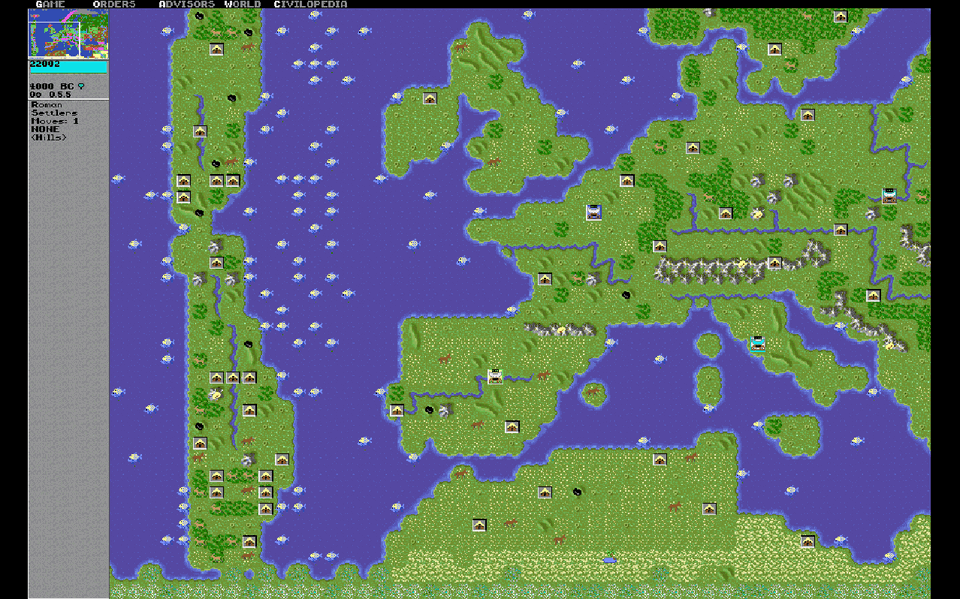
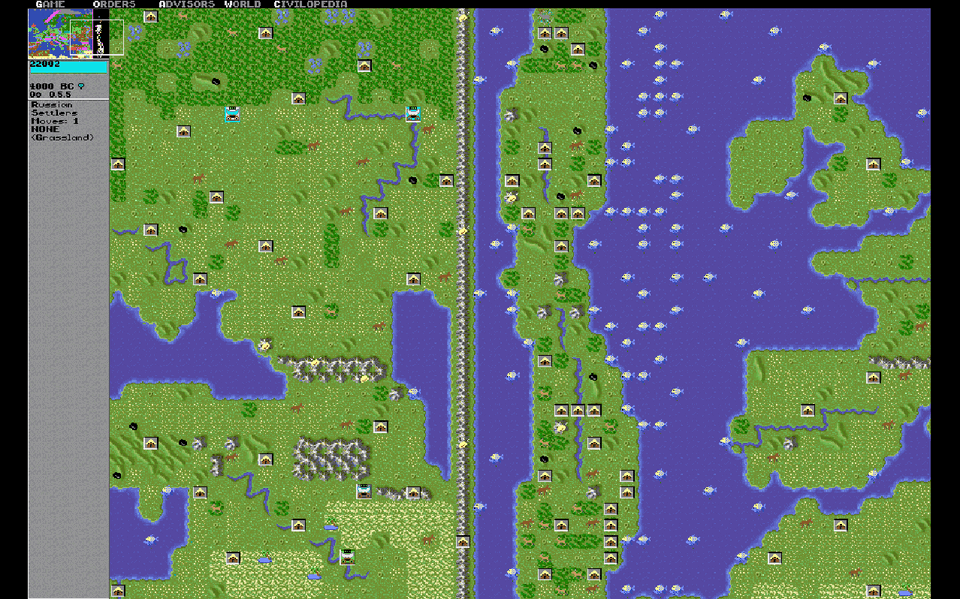
Europe: a range of mountains at the end of the world, Greenland, release 1.7.6
The east edge of Europe is now a single range of mountains from top to
bottom (it also closes the Caspian) instead of two columns of sea; Russia
gets its last column of land back. The west edge stays sea before the New
World, which grows by Greenland in the north and a wider body (about 230
tiles of land). No unit crosses the seam, as before.

Claude-Session: https://claude.ai/code/session_01Ldv5L1WGp1dhZttqXd13rA

diff --git a/tools/maps/terrain.py b/tools/maps/terrain.py
@@ -154,14 +154,18 @@ for name, line in rivers.items():
             if 0 <= x < W and 0 <= y < H and grid[y, x] != 'o':
                 grid[y, x] = 'r'
 
-# Dardanelles open. The map wraps: beyond the east edge lies the New World, so the last two columns
-# are sea (east of the Urals) and the Caspian keeps a shore of steppe and desert on its east.
+# Dardanelles open. The map does not wrap in the game: its east edge is a single range of mountains from top
+# to bottom (the end of the world, past the Urals), and its west edge a column of sea before the New World.
 grid[36, 54] = 'o'
 for y in range(H):
-    for x in (78, 79, 0, 1):
-        grid[y, x] = 'o'
-    if 26 <= y <= 41 and grid[y, 77] == 'o':
-        grid[y, 77] = 'd' if y > 33 else 'p'
+    grid[y, 79] = 'm'
+    grid[y, 0] = 'o'
+    grid[y, 1] = 'o'
+
+# Greenland, in the far north of the New World: tundra and ice.
+for y, x0, x1 in ((2, 4, 6), (3, 3, 7), (4, 3, 7), (5, 4, 6)):
+    for x in range(x0, x1 + 1):
+        grid[y, x] = 'a' if y == 2 or x in (x0, x1) else 't'
 
 # The New World: a narrow, rich land beyond the Atlantic, at the left edge. Two columns of ocean keep it
 # apart from the east edge (the map wraps), and about ten of Atlantic from Europe, so only ships that
@@ -169,10 +173,10 @@ for y in range(H):
 import math
 for y in range(12, 48):
     centre = 5.6 + 1.3 * math.sin(y / 5.0)
-    half = 2.2 + 0.7 * math.sin(y / 3.1 + 1.0)
+    half = 2.7 + 0.7 * math.sin(y / 3.1 + 1.0)
     if 25 <= y <= 27:
         half -= 1.2  # an isthmus
-    for x in range(3, 11):
+    for x in range(2, 12):
         if abs(x + 0.5 - centre) <= max(half, 0.6):
             r = ((x * 2654435761) ^ (y * 40503) ^ 0x9e3779b9) % 100
             if y < 16:
@@ -184,7 +188,7 @@ for y in range(12, 48):
             grid[y, x] = t
     if 18 <= y <= 40 and not 24 <= y <= 28:
         x = int(centre)
-        if 3 <= x < 11 and grid[y, x] != 'o':
+        if 2 <= x < 12 and grid[y, x] != 'o':
             grid[y, x] = 'r'  # the great river of the New World
 
 np.save(out + '/europe_grid.npy', grid)

diff --git a/Civ_1_5_Remastered.Tests/Core.Shared/EuropeMapTests.cs b/Civ_1_5_Remastered.Tests/Core.Shared/EuropeMapTests.cs
@@ -6,6 +6,7 @@ namespace Civ_1_5_Remastered.Tests.Core.Shared
 	public class EuropeMapTests
 	{
 		private const byte Ocean = 1;
+		private const byte Mountains = 13;
 
 		private static readonly int[] Leaders = [1, 2, 3, 4, 5, 6, 7, 9, 10, 11, 12, 13, 14, 15, 16, 17];
 
@@ -43,15 +44,15 @@ namespace Civ_1_5_Remastered.Tests.Core.Shared
 
 			for (int row = 0; row < 50; row++)
 			{
-				// The map wraps: the east edge and the first columns are sea, nobody walks from Russia to the New World.
-				Assert.Equal(Ocean, map.ObtainDot(78, row));
-				Assert.Equal(Ocean, map.ObtainDot(79, row));
+				// The east edge is a single range of mountains from top to bottom, the west edge sea before the New
+				// World; nobody steps across the seam between them.
+				Assert.Equal(Mountains, map.ObtainDot(79, row));
 				Assert.Equal(Ocean, map.ObtainDot(0, row));
 				Assert.Equal(Ocean, map.ObtainDot(1, row));
 			}
 
 			int newWorld = Enumerable.Range(0, 50).SelectMany(row => Enumerable.Range(2, 10).Select(column => map.ObtainDot(column, row))).Count(colour => colour != Ocean);
-			Assert.True(newWorld > 100, $"the New World has {newWorld} tiles of land");
+			Assert.True(newWorld > 180, $"the New World has {newWorld} tiles of land");
 		}
 
 		[Theory]

diff --git a/tools/maps/README.md b/tools/maps/README.md
@@ -16,7 +16,8 @@ CIV_MAP_GRID=$PWD/europe.txt dotnet test ../../Civ_1_5_Remastered.Tests --filter
 ```
 
 In the game Europe does not wrap: no unit steps across its left and right edges (`EuropeMap.CrossesEdge`,
-in the moves and in GoTo). The two last and two first columns are sea besides, so the New World lies five tiles
-of sea from Russia and Persia and seven to ten from Ireland and Spain. It is rich: about one tile in four has a
+in the moves and in GoTo). Its east edge is a single range of mountains from top to bottom (past the
+Urals; it also closes the Caspian) and its west edge two columns of sea before the New World, which lies seven
+to ten tiles of Atlantic from Ireland and Spain; Greenland is its northern tip. It is rich: about one tile in four has a
 special resource and one in seven a village (`EuropeMap.RichResource`, `EuropeMap.ExtraVillage`). At the Bosporus
 land and sea form a chessboard: ships and armies both pass, diagonally.
